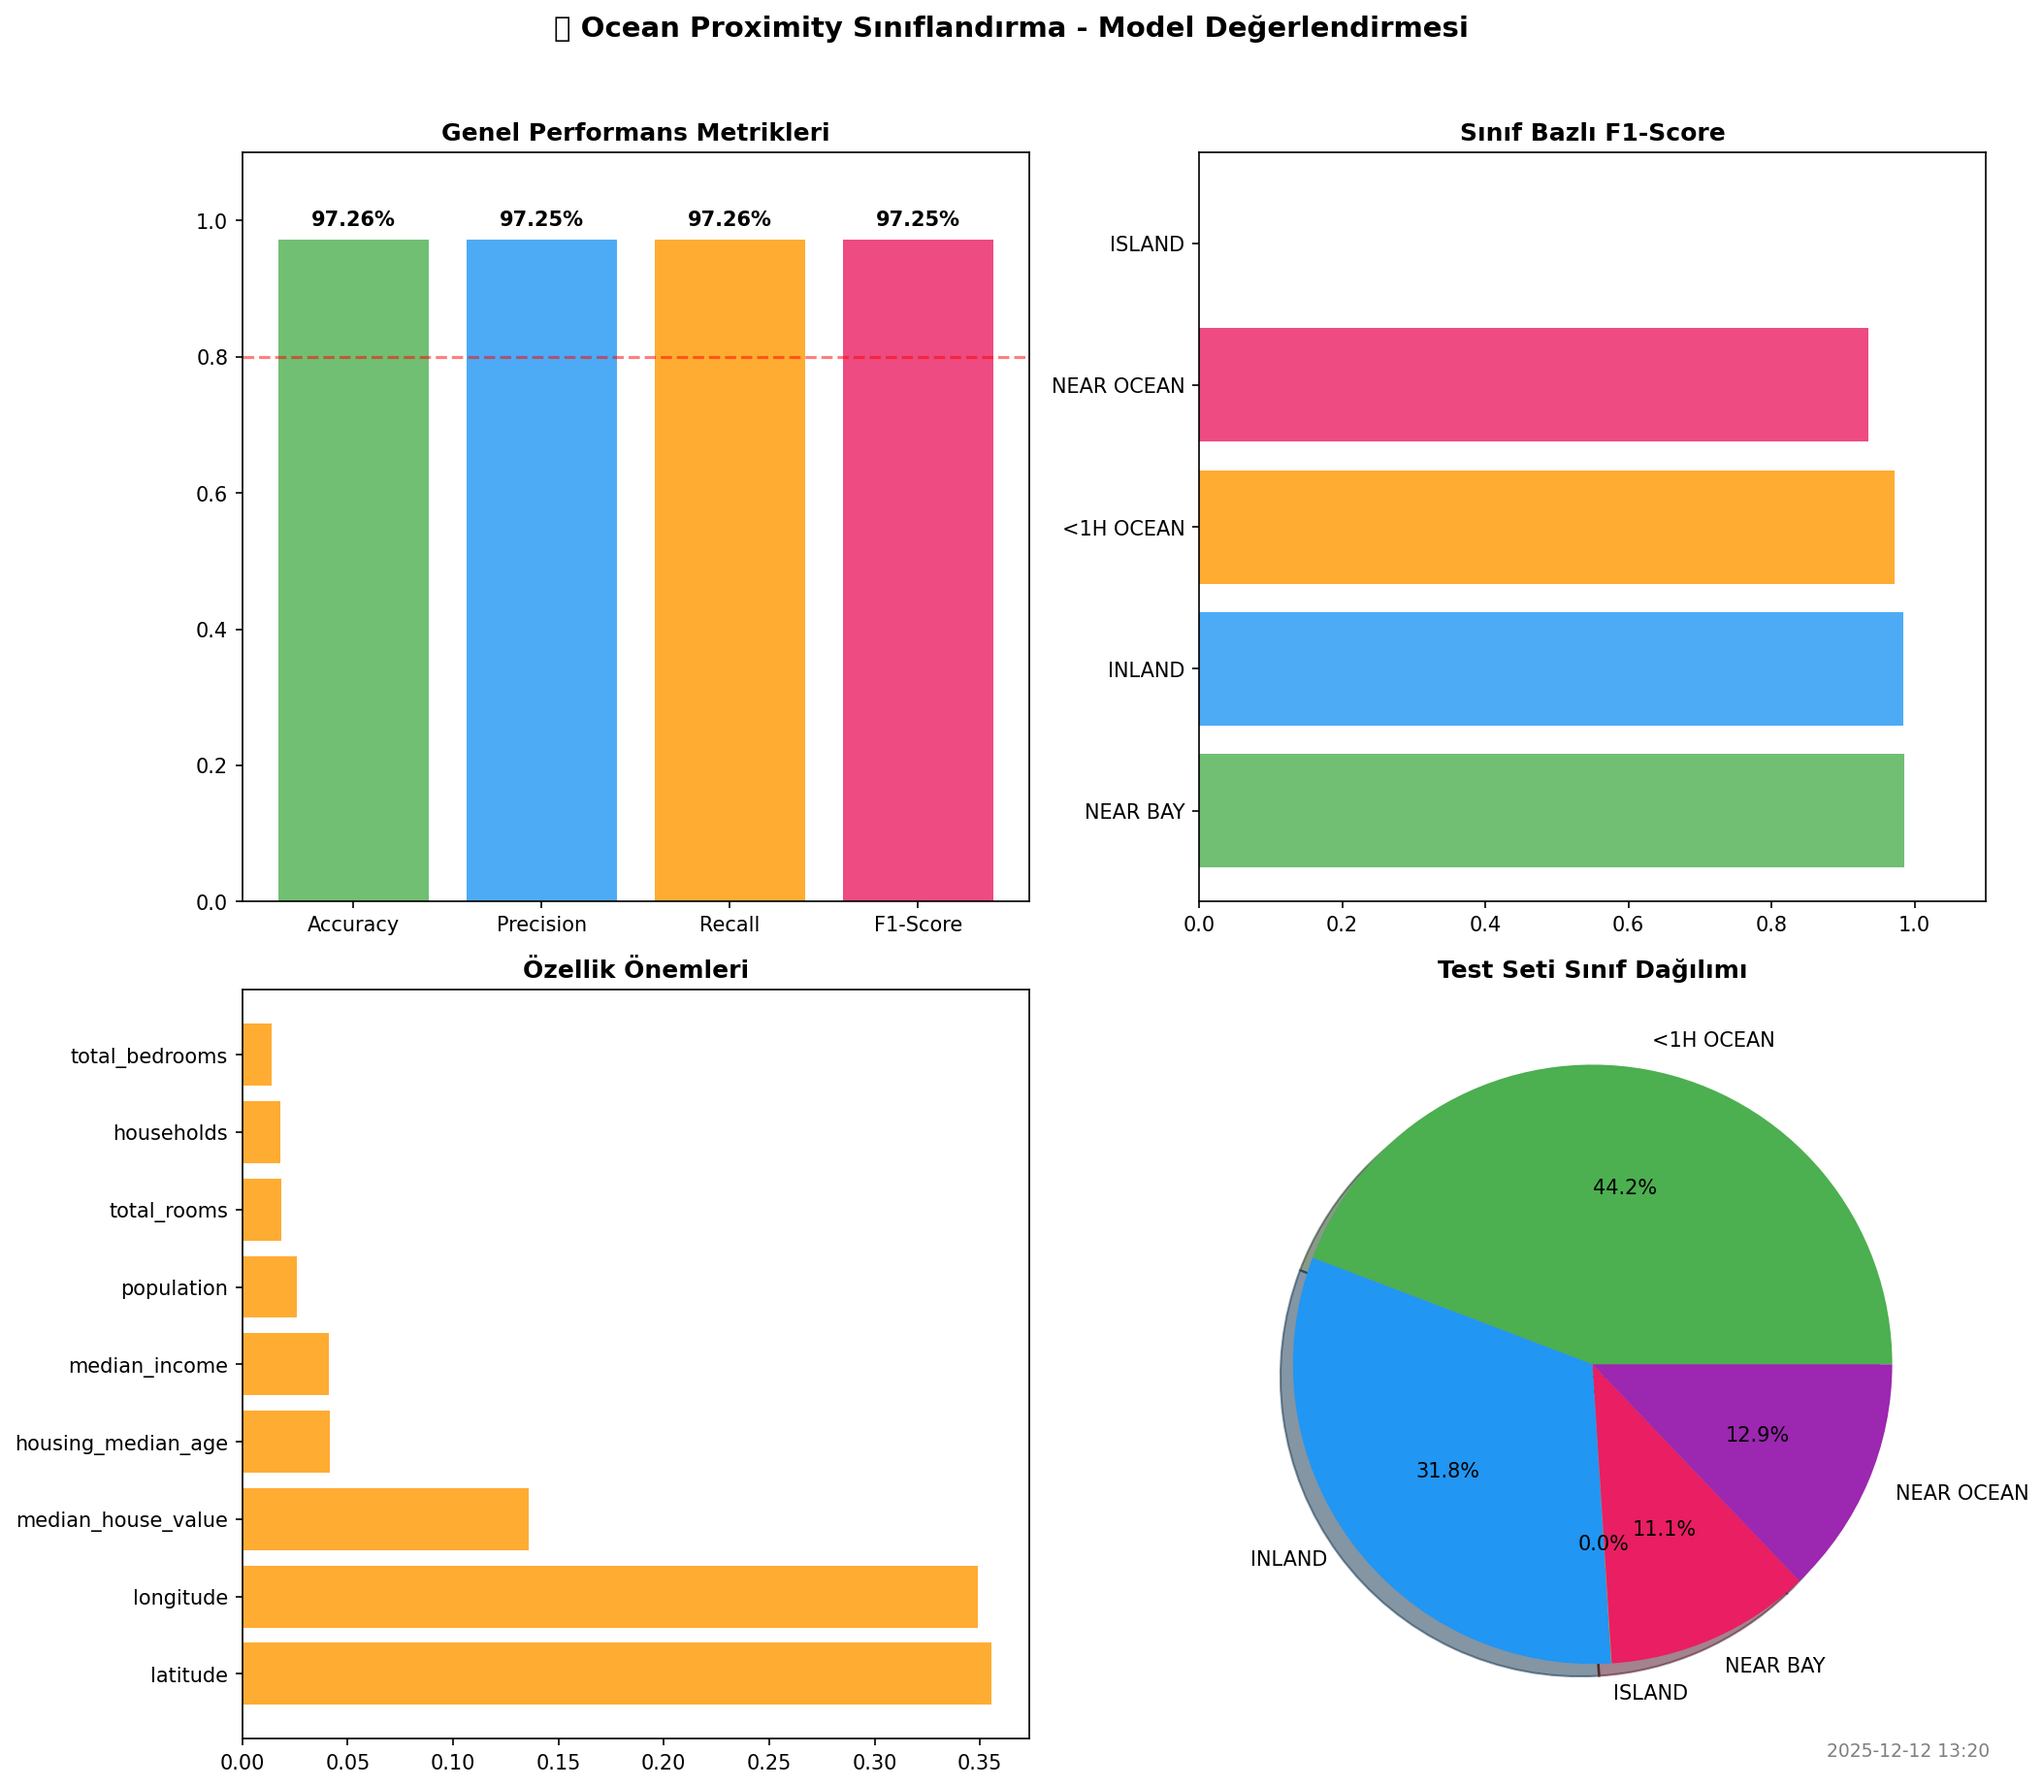
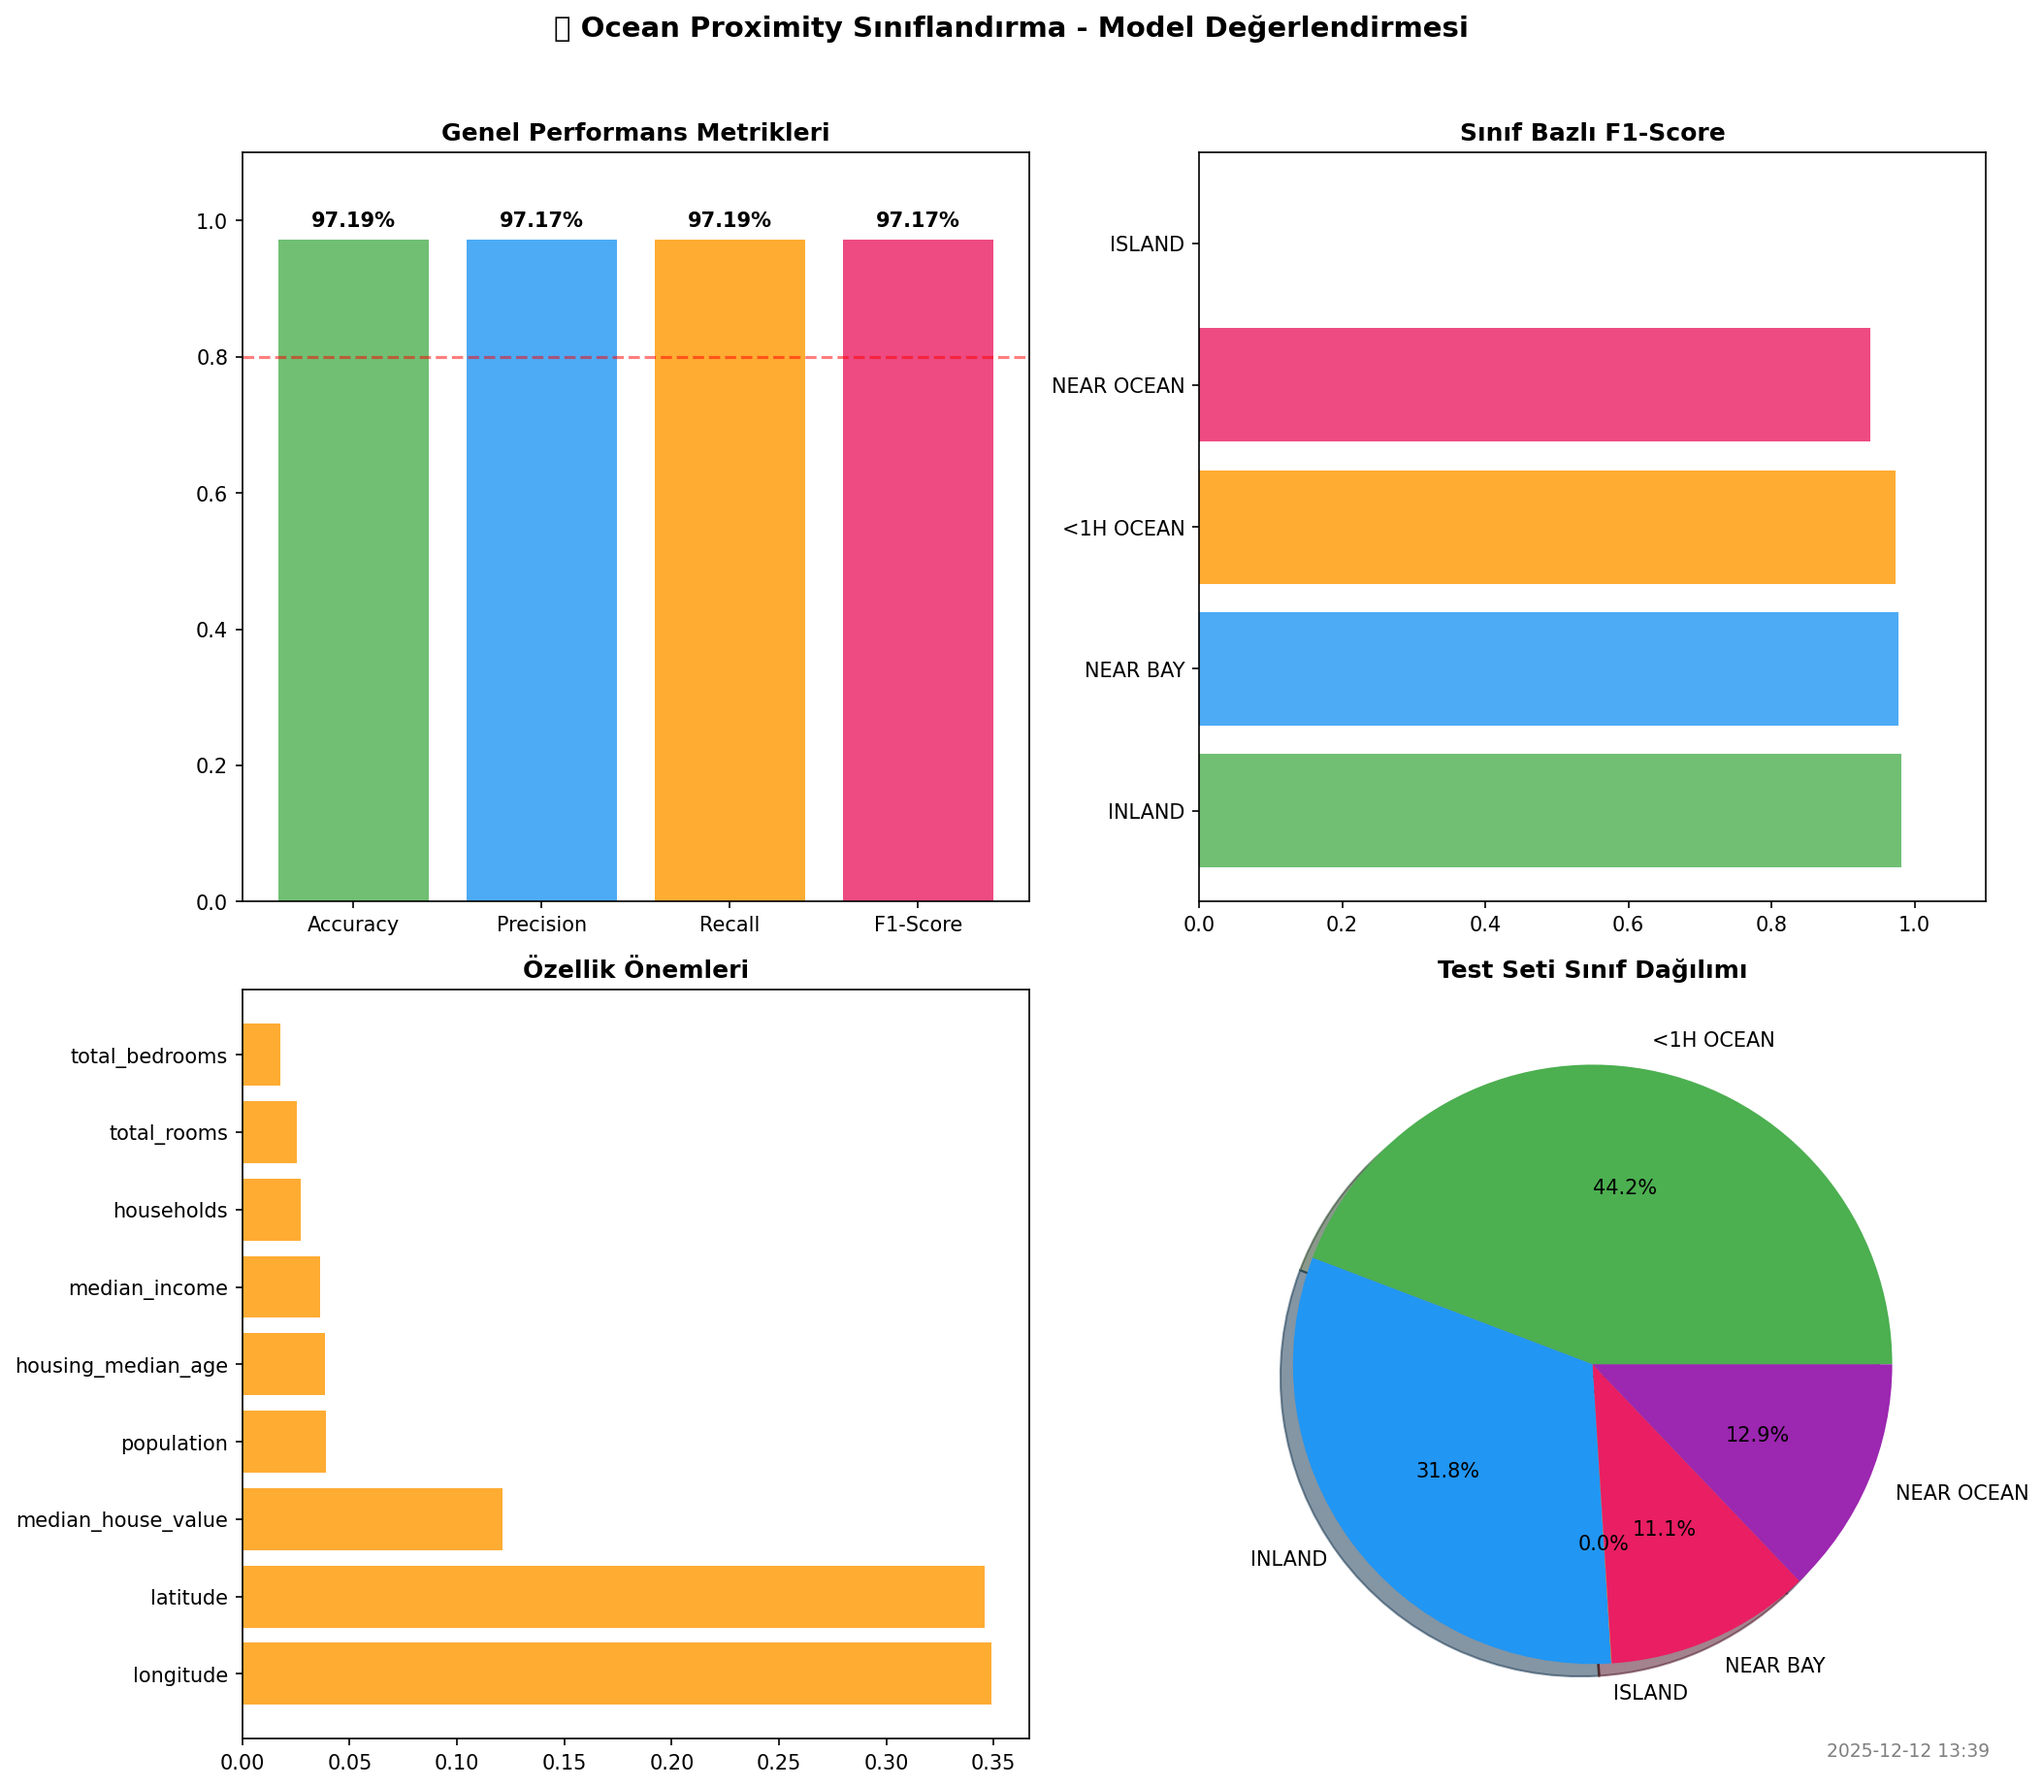
Complating

diff --git a/regression/regression.py b/regression/regression.py
@@ -35,7 +35,7 @@ def train_model(X_train, y_train, n_estimators=100, max_depth=15):
     model = RandomForestRegressor(
         n_estimators=n_estimators,
         max_depth=max_depth,
-        random_state=42,
+        random_state=12,
         n_jobs=-1
     )
     

diff --git a/classification/classification.py b/classification/classification.py
@@ -46,7 +46,7 @@ def train_model(X_train, y_train, n_estimators=100, max_depth=15):
         n_estimators=n_estimators,
         max_depth=max_depth,
         class_weight='balanced',
-        random_state=42,
+        random_state=12,
         n_jobs=-1
     )
     
